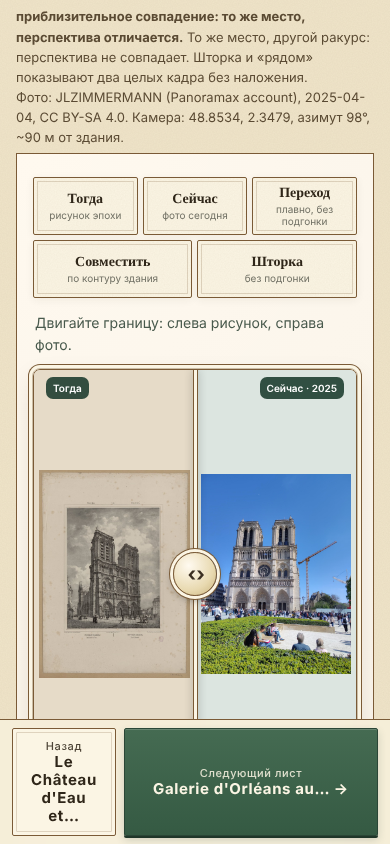
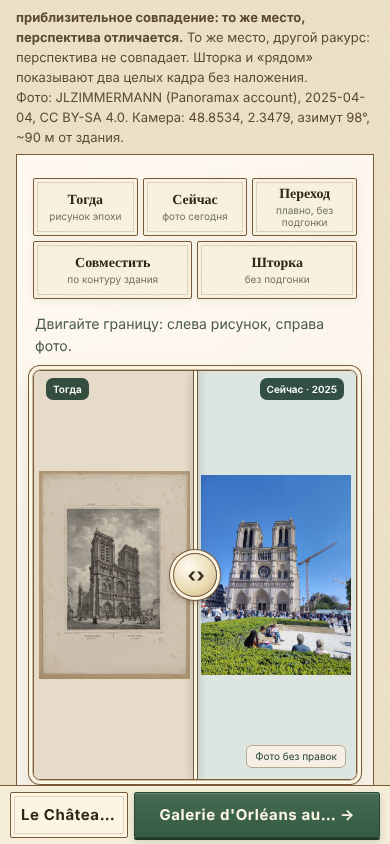
Book design review fixes: compact dock, collapsed lens, order map before comparison, 44px targets; docs
Claude-Session: https://claude.ai/code/session_01LdHt8Et5Uy4nRGp7UuZQir

diff --git a/book/app.js b/book/app.js
@@ -405,15 +405,15 @@
       <section class="chead"><p class="eyebrow">Лист ${i + 1} из ${D.sheets.length} · ${esc(sh.holder)}</p><h1>${esc(title)}</h1></section>
       <figure class="lt-sheet"><div class="zoomwrap" id="zoomwrap" tabindex="0" aria-label="Лист крупно. Прокручивайте, чтобы рассмотреть детали"><img id="zoomimg" src="${esc(sh.image)}" alt="${esc(sh.title)}" width="1280"></div>
         <div class="lt-tool zoomctl"><label for="zoomrange"><span class="lt-legend">Увеличение</span> <b id="zoomval">100%</b></label><input id="zoomrange" type="range" min="100" max="300" step="10" value="100"></div>
-        <div class="lt-tool lens" role="group" aria-label="Как рассмотреть лист"><span class="lt-legend">Рассмотреть иначе</span>${[["orig", "Оригинал"], ["contrast", "Контраст"], ["shadow", "Тени"], ["edges", "Контур"]].map(([k, t]) => `<button type="button" class="btn ghost lensbtn" data-lens="${k}" aria-pressed="${k === "orig"}">${t}</button>`).join("")}<p class="small">Только показ на экране: файл не меняется. Это не научный снимок и не «реставрация».</p></div>
+        <details class="lt-tool lens"><summary>Рассмотреть иначе: контраст, тени, контур</summary><div class="lensrow" role="group" aria-label="Как рассмотреть лист">${[["orig", "Оригинал"], ["contrast", "Контраст"], ["shadow", "Тени"], ["edges", "Контур"]].map(([k, t]) => `<button type="button" class="btn ghost lensbtn" data-lens="${k}" aria-pressed="${k === "orig"}">${t}</button>`).join("")}</div><p class="small">Только показ на экране: файл не меняется. Это не научный снимок и не «реставрация».</p></details>
         <figcaption class="lt-imprint"><span class="l">${esc(sh.holder)}</span><span class="c">${esc(sh.rights)}</span><span class="r">${esc(sh.accession)}</span></figcaption></figure>
       <h2>Кто сделал лист</h2><ul class="facts-list">${who}</ul>
       <h2>Что известно</h2><dl class="facts"><dt>Техника</dt><dd>${esc(sh.technique || "в записи не указана")}</dd><dt>Права</dt><dd><a href="${esc(safe(sh.rights_url))}" target="_blank" rel="noopener">${esc(sh.rights)}</a></dd>
         <dt>Оригинал</dt><dd><a href="${esc(safe(sh.record_url))}" target="_blank" rel="noopener">карточка в собрании ↗</a></dd>${more ? `<dt>Другие экземпляры</dt><dd>${more}</dd>` : ""}</dl>
       ${insideOutside(sh)}
       ${pl ? `<h2>История места</h2><p><a class="btn ghost" href="#/place/${esc(pl.id)}">${esc(pl.name_ru)}: что стояло, что изменилось →</a></p>` : ""}
-      ${compareSection(D.sp[sh.id])}
       ${placeSection(D.sp[sh.id])}
+      ${compareSection(D.sp[sh.id])}
       ${dock(next ? { href: "#/sheet/" + next.id, t: cut(next.title.split(" / ")[0], 26), small: "Следующий лист" } : { href: "#/benoist", t: "Все листы Бенуа" }, prev ? { href: "#/sheet/" + prev.id, t: cut(prev.title.split(" / ")[0], 22) } : { href: "#/benoist", t: "Листы Бенуа" })}</div>`;
     const range = document.getElementById("zoomrange"), im = document.getElementById("zoomimg"), val = document.getElementById("zoomval");
     range.addEventListener("input", () => { im.style.width = range.value + "%"; val.textContent = range.value + "%"; });

diff --git a/tests/browser/qa_book.js b/tests/browser/qa_book.js
@@ -105,7 +105,7 @@ const SHEETS = SHEET_LIST.length;
     check(`${v.name}: sheet page offers the 1878 plan with transparency`, (await page.locator("#planBtn").isVisible()));
     await page.goto(base + "#/sheet/parismusees-320290108", { waitUntil: "domcontentloaded" });
     await page.waitForSelector("[role=note]");
-    check(`${v.name}: sheet without a photo says the viewpoint is not established`, /ракурс не установлен/.test(await page.locator("[role=note]").first().innerText()));
+    check(`${v.name}: sheet without a photo says the viewpoint is not established`, /ракурс не установлен/.test((await page.locator("[role=note]").allInnerTexts()).join(" ")));
     await page.goto(base + "#/plate/64fa693216", { waitUntil: "domcontentloaded" });
     await page.waitForSelector("#pzr");
     const pw0 = await page.locator(".plate .lt-print img").first().evaluate((i) => i.getBoundingClientRect().width);
@@ -141,6 +141,7 @@ const SHEETS = SHEET_LIST.length;
     check(`${v.name}: place page has the old-plan toggle and a link to the sheet story`, (await page.locator("#planBtn").count()) === 1 && (await page.locator('a[href^="#/sheet/"]').count()) >= 1);
     await page.goto(base + "#/sheet/parismusees-320291945", { waitUntil: "domcontentloaded" });
     await page.waitForSelector("#zoomimg");
+    await page.locator(".lens > summary").click();
     await page.locator('.lensbtn[data-lens="edges"]').click();
     await page.waitForSelector(".zoomwrap canvas", { timeout: 8000 });
     const lensOk = (await page.locator(".zoomwrap canvas").count()) === 1 && (await page.locator("#zoomimg").evaluate((i) => getComputedStyle(i).display)) === "none";

diff --git a/book/book.css b/book/book.css
@@ -253,3 +253,14 @@ html{scroll-padding-bottom:96px}
 .layers{margin:10px 0}.layers summary{list-style:none;cursor:pointer}.layers summary::-webkit-details-marker{display:none}
 .layrow{display:flex;gap:10px;align-items:center;flex-wrap:wrap;margin:6px 0}.layrow label{min-width:190px}.layrow input[type=range]{flex:1;min-width:120px;min-height:44px}
 #loupeBtn[aria-pressed=true]{background:#355a43;border-color:#2a4636;color:#fbf5e4}.lost summary{cursor:pointer;margin:6px 0}
+/* design review fixes (independent review, stage 3) */
+.dock{padding:6px 10px calc(6px + env(safe-area-inset-bottom));gap:6px}
+.dock .btn{min-height:44px;flex-direction:row;white-space:nowrap;overflow:hidden;text-overflow:ellipsis;display:block;line-height:44px;padding:0 10px}
+.dock .btn small{display:none}.dock .btn.ghost{flex:0 0 32%}
+body{padding-bottom:calc(72px + env(safe-area-inset-bottom))}
+.lens summary{cursor:pointer;min-height:44px;display:flex;align-items:center;font:600 14px var(--lt-sans)}
+.lensrow{display:grid;grid-template-columns:repeat(4,1fr);gap:6px;margin:6px 0}.lensrow .lensbtn{padding:0 4px;min-width:0}
+.layers select{min-height:44px;font-size:16px;max-width:100%}.layrow label{display:flex;align-items:center;gap:8px;min-height:44px}
+.laychk{width:24px;height:24px}.mapext a,.lost summary{display:inline-flex;align-items:center;min-height:44px}
+@media(max-width:480px){h2{letter-spacing:.06em}}
+a.card:focus-visible,a.pl:focus-visible{outline:3px solid var(--lt-brick);outline-offset:2px}

diff --git a/tests/browser/qa_webkit.js b/tests/browser/qa_webkit.js
@@ -23,6 +23,7 @@ const check = (name, ok, detail = "") => { results.push(ok); console.log(`${ok ?
     await page.locator(".layers > summary").click();
     await page.waitForFunction(() => /контур/.test(document.getElementById("layNote").textContent), null, { timeout: 15000 });
     check(`${name}: place layers open`, true);
+    await page.locator(".lens > summary").click();
     await page.locator('.lensbtn[data-lens="edges"]').click();
     await page.waitForSelector(".zoomwrap canvas", { timeout: 15000 });
     check(`${name}: edge lens draws on a canvas`, true);

diff --git a/docs/consilium/GRAND_UNIFICATION_20261127.md b/docs/consilium/GRAND_UNIFICATION_20261127.md
@@ -103,3 +103,8 @@
 ### Allmaps на странице листа (Île de la Cité)
 В панели «История места по годам» добавлен выбор старой карты эпохи: Verniquet 1789 (BnF), Jacoubet 1836 (BHVP), Atlas municipal 1868/1888/1900 (BHdV). Привязки (Allmaps annotations проекта SODUCO) читаются из их репозитория в браузере посетителя, изображения карт приходят с IIIF-серверов библиотек (BnF/Gallica, geohistoricaldata.org); мы их не копируем, условия использования остаются у источников. Используется уже вендоренный `eras/vendor/allmaps-leaflet-beta55`.
 **NOT VERIFIED:** в сессии доступ к серверам изображений заблокирован прокси (в тесте: слой создаётся и привязка читается, плитки не загружаются, получен CORS/сеть). Работа на живом сайте и на iPhone не проверена; при недоступности страница честно пишет «не удалось». Лицензия данных SODUCO не проверена (репозиторий недоступен из сессии), поэтому данные не скопированы в наш репозиторий.
+
+### Независимое дизайн-ревью (субагент museum-art-director, Chromium 390/820; реальный Safari не проверялся)
+12 замечаний. Исправлено сразу: нижний док (≤ 56 px, названия соседей в одну строку, без подписи), «Рассмотреть иначе» свёрнуто в `details` с сеткой из 4 кнопок, порядок листа теперь ближе к книге: произведение → кто сделал → что известно → интерьер/снаружи → история места → карта и слои → сравнение с фото сегодня (раньше сравнение шло перед картой), цели касания 44 px у select, чекбоксов слоёв, ссылок Google, меньшая разрядка h2 на узких экранах, видимый фокус на карточках.
+Не исправлено (следующий шаг): ряд ракурсов миниатюрами со scroll-snap и режимы сравнения в `details` (11 управляющих элементов подряд), пустые поля вокруг портретной гравюры в сравнении, обложка без изображения и кнопка «Назад» на корне, типографика обложки (serif), сетка `dl` «Что известно».
+WebKit: CI-задача `WebKit smoke` (`tests/browser/qa_webkit.js`, `continue-on-error`) проверяет движок Safari, **не физический iPhone/iPad**; результат первого запуска не получен (в песочнице WebKit не установлен).
